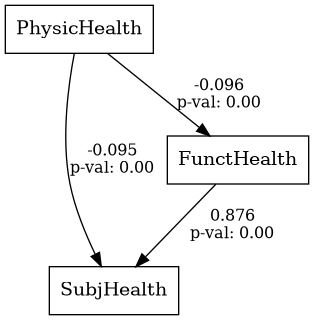
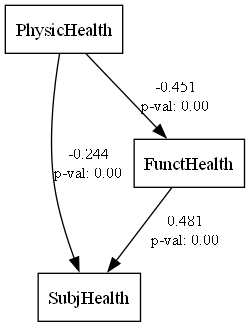
corrected interpretation of residual variance + now  plotting standardised estimates

diff --git a/book/statistics/5_Path_Modelling/2_Example.md b/book/statistics/5_Path_Modelling/2_Example.md
@@ -87,7 +87,7 @@ print(stats)
 Finally, we can also visualise the model:
 
 ```{code-cell}
-semopy.semplot(model, "figures/health.png") 
+semopy.semplot(model, "figures/health.png", std_ests=True) # notice we are plotting the standardized estimates
 ```
 
 **Additional information:** If you want to visualise the model, you need to install Graphviz through pip (if you installed everything in the *requirements.txt* file you already have it). You then also need to install [Graphviz](https://graphviz.org/) as a normal program. On Windows, make sure to select the "Add Graphviz to PATH" option during the installation.
@@ -126,10 +126,14 @@ Standardized coefficients (`Est.Std`) allow us to compare the relative influence
 - **Physical Health → Subjective Health**: **-0.244** (moderate negative effect).  
 - **Functional Health → Subjective Health**: **0.481** (strong positive effect).
 
-### Variance Explained
+### Variances
 
-- **Functional Health**: Residual variance = **0.172** (p < 0.001). This represents the unexplained variance in functional health.  
-- **Subjective Health**: Residual variance = **0.432** (p < 0.001). This represents the unexplained variance in subjective health.
+1. `Functional Health ~~ Functional Health`: Residual variance = **0.172** (p < 0.001). This represents the unexplained variance in functional health.
+   - Coefficient: **0.172**, standardized coefficient: **0.796**  
+   - **Interpretation**: The standardized **Residual Variance** indicates that approximately **80%** of the individual variance in functional health remains unexplained by the model.
+2. `Subjective Health ~~ Subjective Health`: Residual variance = **0.432** (p < 0.001). This represents the unexplained variance in subjective health.
+   - Coefficient: **0.432**, standardized coefficient: **0.603**  
+   - **Interpretation**: In this case, the standardized **Residual Variance** indicates that approximately **60%** of the individual variance in subjective health remains unexplained by the model.
 
 
 ## Model Evaluation
@@ -151,20 +155,20 @@ Standardized coefficients (`Est.Std`) allow us to compare the relative influence
 
 ### Key Insights
 
-1. **Physical Health → Functional Health**: Negative relationship; more illnesses lead to reduced functional health.
-2. **Physical Health → Subjective Health**: Negative relationship; more illnesses lead to poorer subjective health.
-3. **Functional Health → Subjective Health**: Positive relationship; higher functional health improves subjective health.
+1. `Functional Health ~ Physical Health`: Negative relationship; more illnesses (measured as higher score in physical health) lead to reduced functional health.
+2. `Subjective Health ~ Physical Health`: Negative relationship; more illnesses lead to poorer subjective health.
+3. `Subjective Health ~ Functional Health`: Positive relationship; higher functional health improves subjective health.
 
 ### Implications
 
-- **Mediation**: Functional health mediates the effect of physical health on subjective health.
-- **Variance Explained**: Functional health (17.2%), subjective health (43.2%). Other factors likely influence outcomes.
+- **Mediation**: Functional health mediates the effect of physical health on subjective health. In other words, apart from directly influencing subjective health, physical health also influences subjective health by influencing functional health (indirect effect).
+- **Variance Explained**: Functional health (20.6%), subjective health (39.7%). Other factors likely influence outcomes.  These percentages represent **R-squared** values (explained variance) and are calculated as 1 minus the standardized residual variance.
 
 ### Limitations
 
 - **Overfitting**: Model fit metrics suggest overfitting risks.  
 - **Self-reported Measures**: Subjective health may suffer from biases (e.g., recall bias).  
-- **Unexplained Variance**: Additional predictors (e.g., social factors) could enhance the model.
+- **Large Unexplained Variance**: Additional predictors (e.g., social factors) could enhance the model.
 
 
 ```{admonition} Caution
